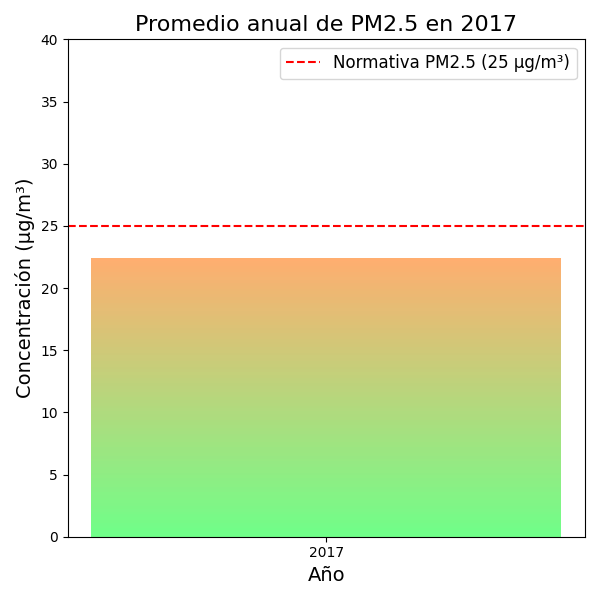
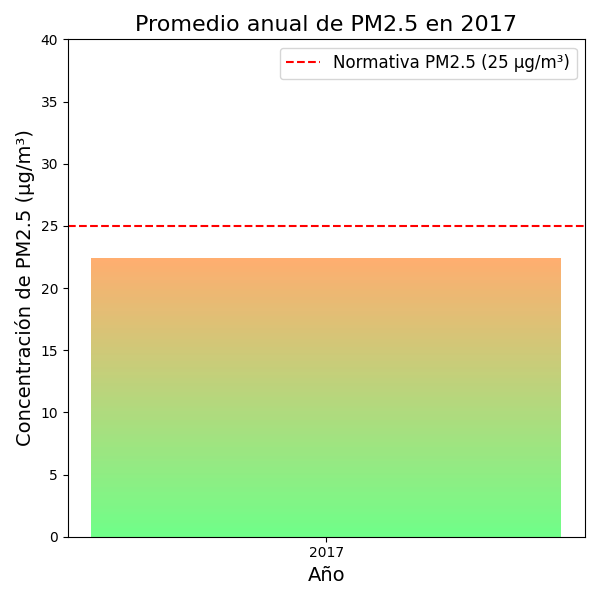
[UPDATE]

Changed region(s): [[0.03, 0.21, 0.06, 0.75]]

diff --git a/main.py b/main.py
@@ -204,7 +204,7 @@ def graficar_promedio_anual_apilado():
     
     plt.title('Promedio anual de PM2.5 en 2017', fontsize=16)
     plt.xlabel('Año', fontsize=14)
-    plt.ylabel('Concentración (µg/m³)', fontsize=14)
+    plt.ylabel('Concentración de PM2.5 (µg/m³)', fontsize=14)
     plt.legend(fontsize=12, loc="upper right") 
     plt.ylim(0, max(40, promedio_anual_pm25 * 1.2))  # Ajustar límite Y para visibilidad
     plt.tight_layout()
